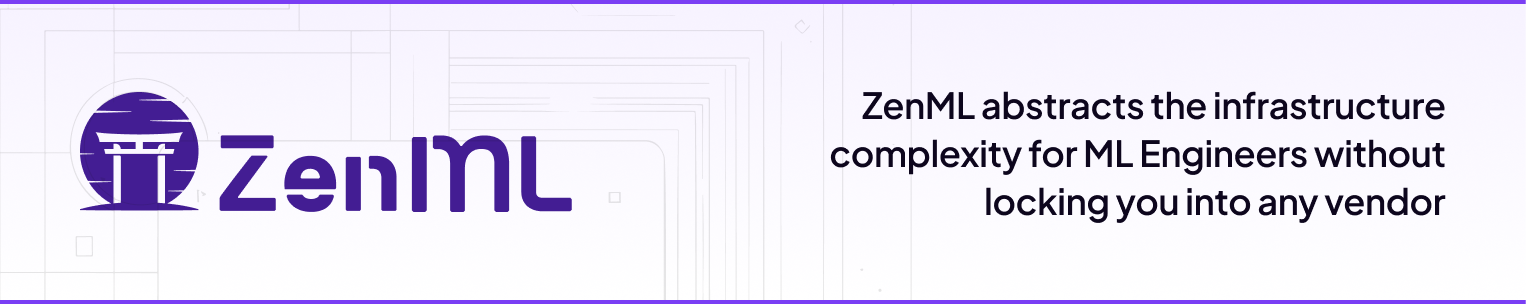
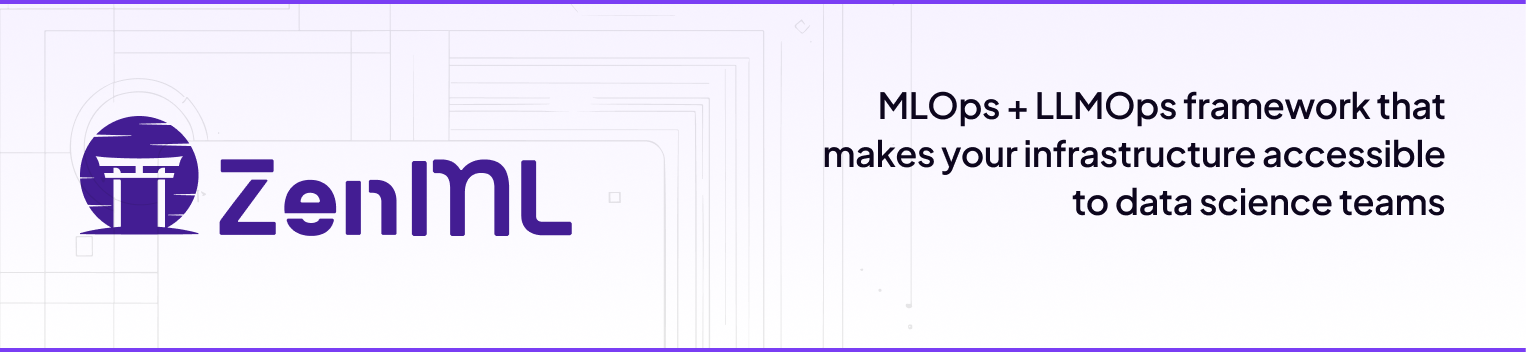
README update (#2901)
* Added new banner and heading

* Added new banner and heading

* New heading

* Optimised images with calibre/image-actions

---------

(cherry picked from commit c4f42c43309de7ce9b0b3884238527491009b20d)

diff --git a/README.md b/README.md
@@ -1,6 +1,6 @@
 <div align="center">
   <img referrerpolicy="no-referrer-when-downgrade" src="https://static.scarf.sh/a.png?x-pxid=0fcbab94-8fbe-4a38-93e8-c2348450a42e" />
-  <h1 align="center">Create an internal MLOps platform for your entire machine learning team.
+  <h1 align="center">Connecting data science teams seamlessly to cloud infrastructure.
 </h1>
 </div>
 
